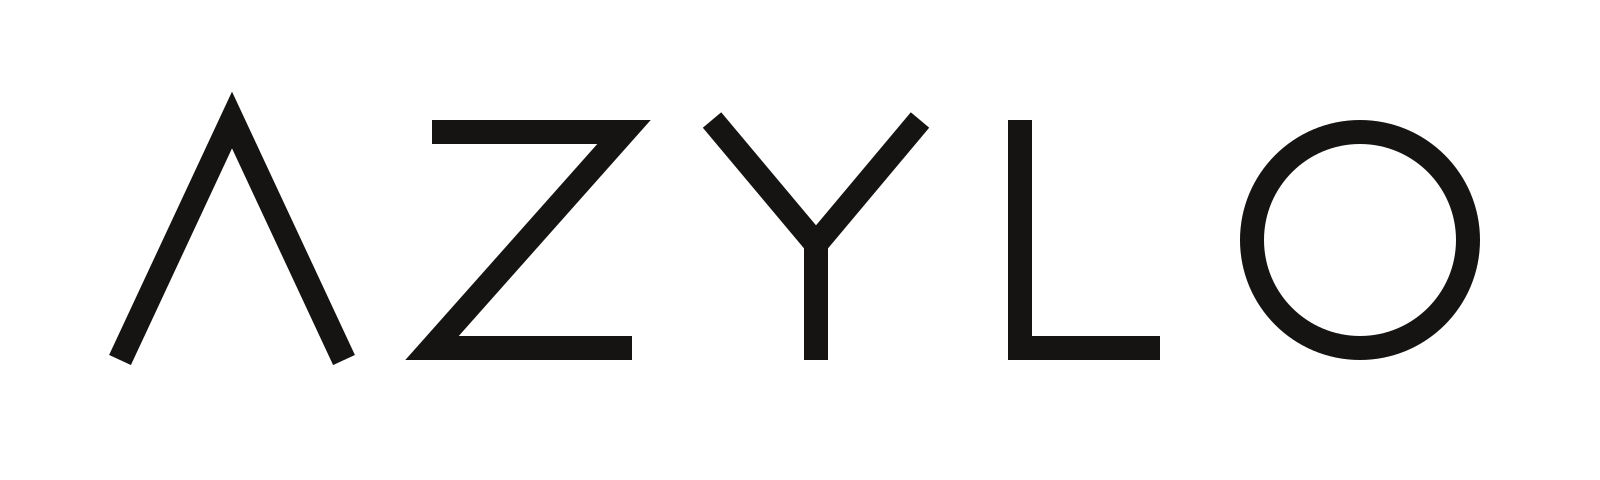
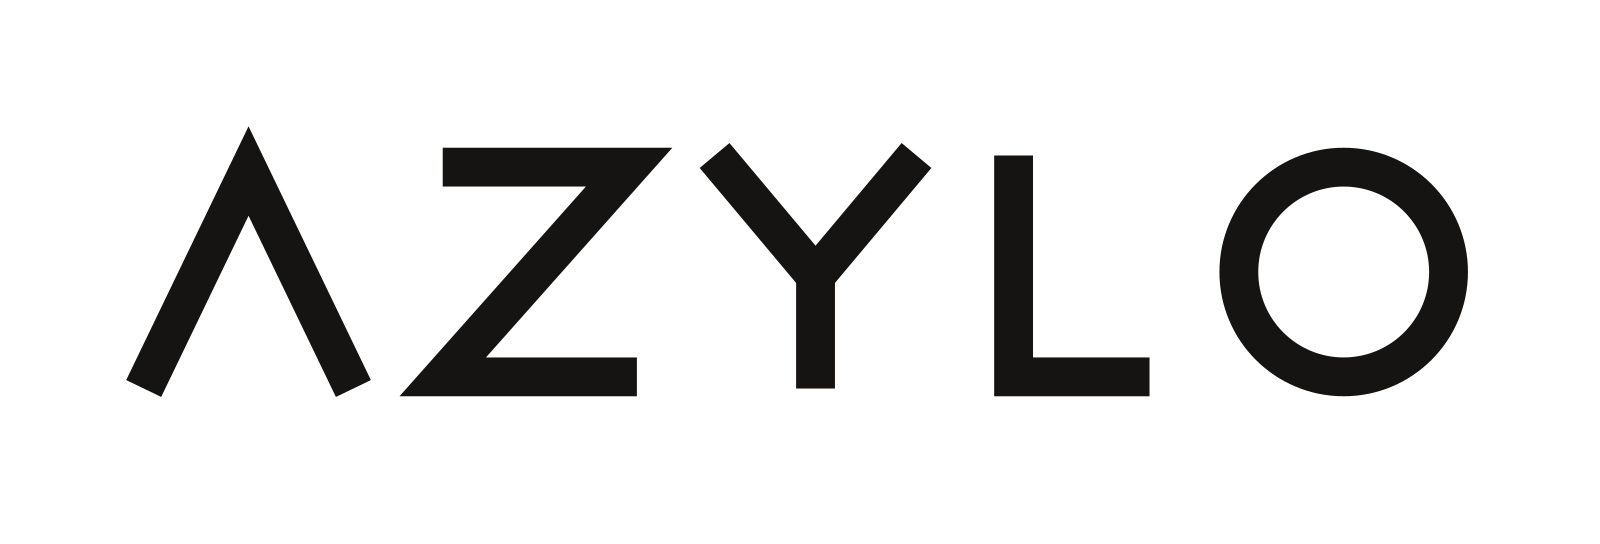
Bolder ΛZYLO wordmark (thicker strokes, slightly larger)

Changed region(s): [[0.0625, 0.1875, 0.75, 0.75], [0.75, 0.25, 0.9375, 0.75]]

diff --git a/src/components/ui/primitives.tsx b/src/components/ui/primitives.tsx
@@ -197,22 +197,22 @@ export function Divider({ className }: { className?: string }) {
  * matching the logo on the product photography. `size` sets the cap height scale.
  */
 export function Logo({ className, light, size = 20 }: { className?: string; light?: boolean; size?: number }) {
-  const h = Math.round(size * 1.05);
+  const h = Math.round(size * 1.3);
   return (
     <svg
       role="img"
       aria-label="AZYLO"
-      viewBox="0 0 344 64"
+      viewBox="-6 -10 356 84"
       height={h}
-      width={Math.round((h * 344) / 64)}
+      width={Math.round((h * 356) / 84)}
       className={clsx("az-logo inline-block flex-none", light ? "text-white" : "text-ink", className)}
       fill="none"
       stroke="currentColor"
-      strokeWidth={7}
+      strokeWidth={10}
       strokeLinejoin="miter"
       strokeMiterlimit={10}
     >
-      <path pathLength={1} d="M2 62 L30 2 L58 62" />
+      <path pathLength={1} d="M3 62 L30 6 L57 62" />
       <path pathLength={1} d="M80 5 H128 L80 59 H130" />
       <path pathLength={1} d="M150 2 L176 33 L202 2 M176 33 V62" />
       <path pathLength={1} d="M227 2 V59 H262" />
